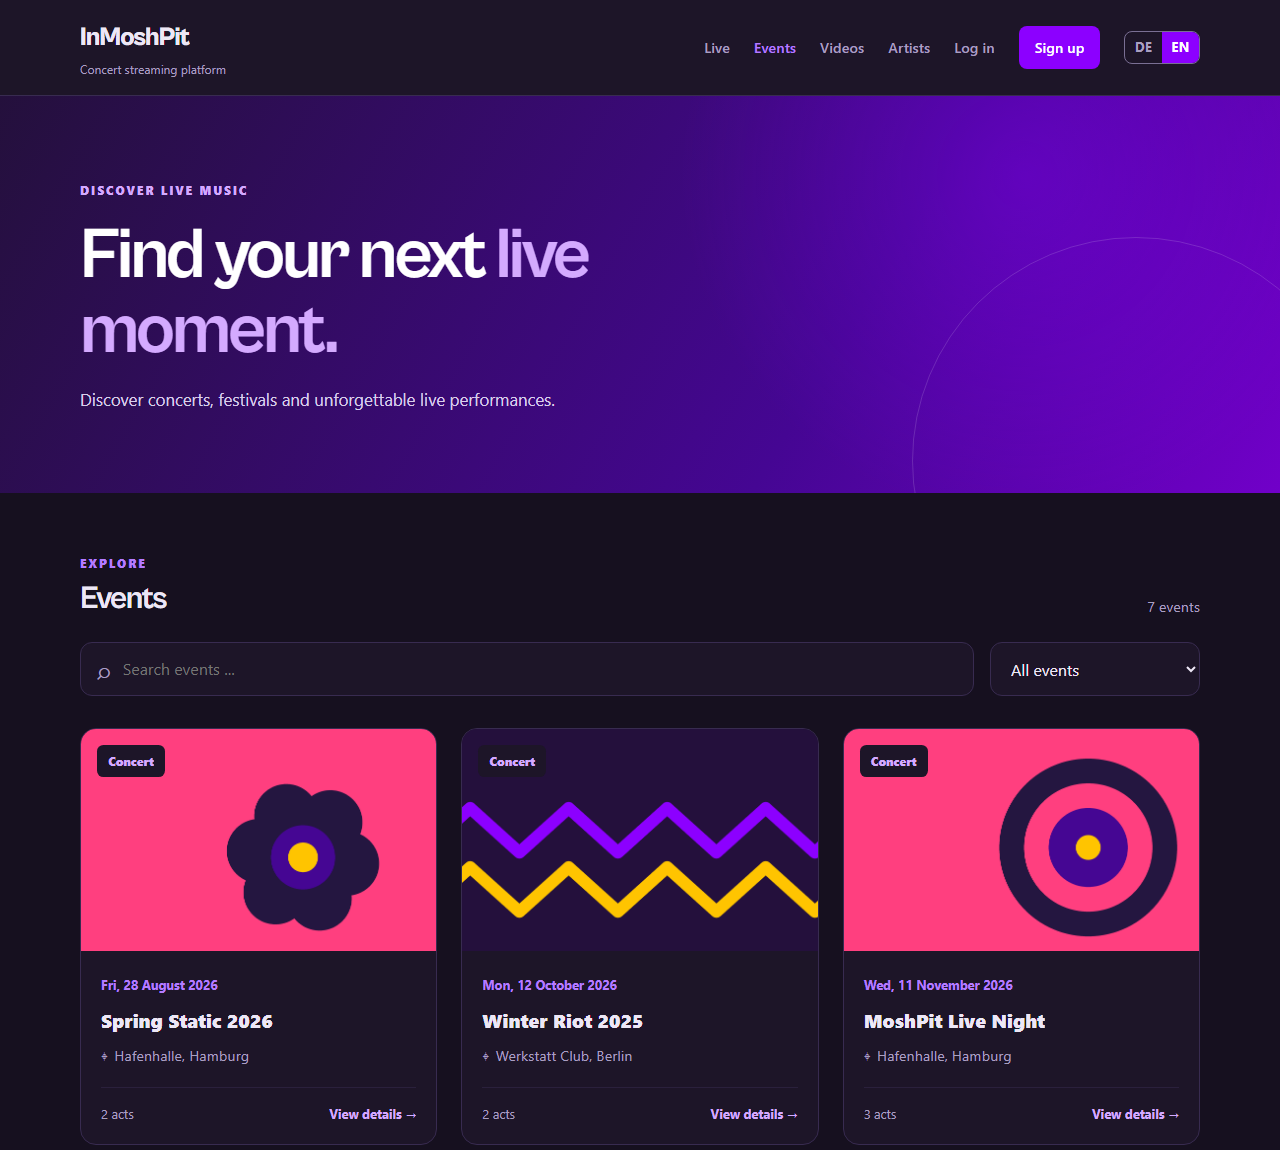
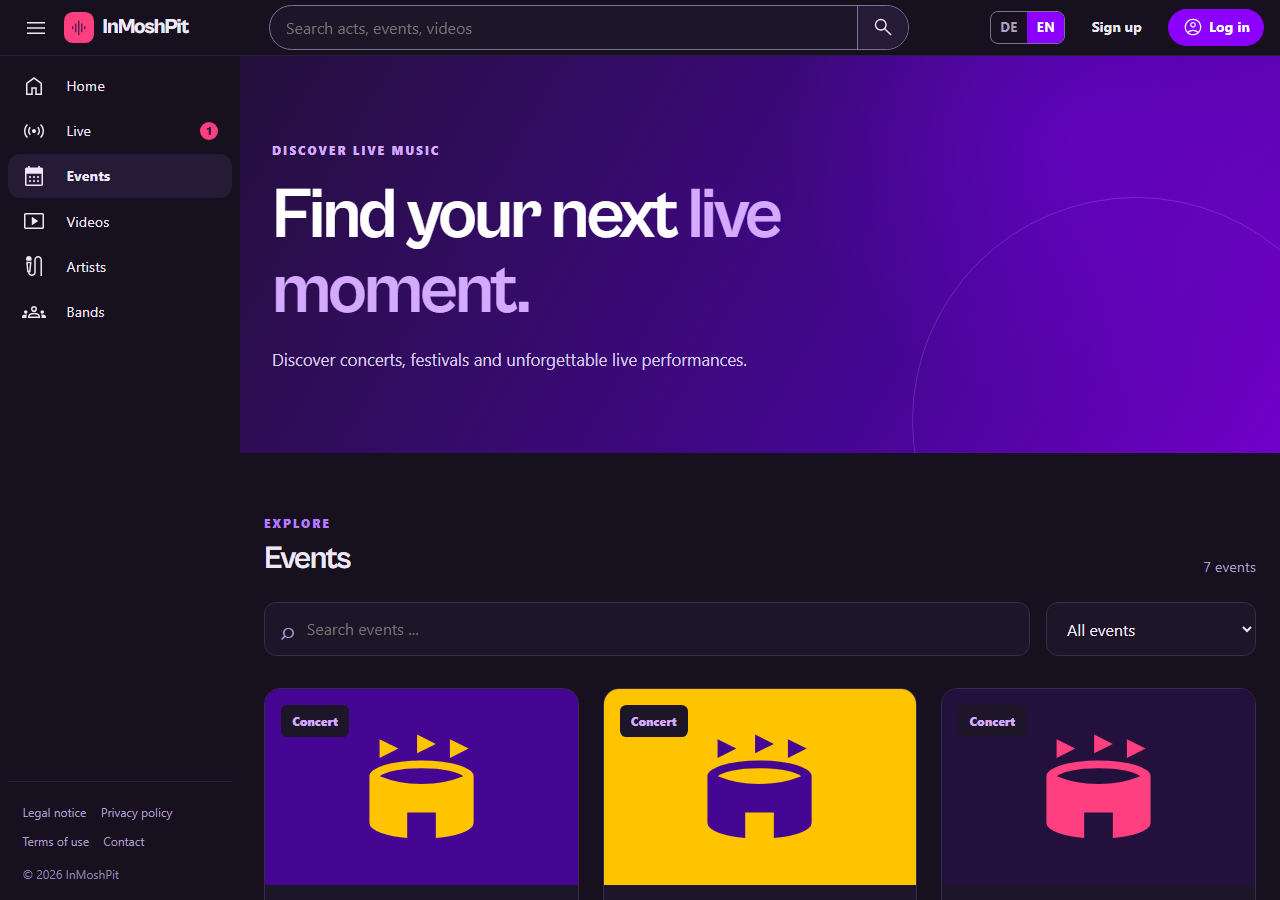
Update README for the new layout and retake the screenshots
Describe the layout and the token refresh, mention the icon set and replace the
screenshots with the home page, events, artists and the phone view.

diff --git a/README.md b/README.md
@@ -5,22 +5,23 @@ with the recordings. Available in German and English.
 
 ## Features
 
+- Video-platform layout: top bar with global search, collapsible sidebar, bottom navigation on phones
 - Live streams with countdown, status updates and HLS playback
 - Recordings archive with likes and comments
 - Events (concerts, festivals) with line-up and stages, artists and bands
-- Registration and JWT login
+- Registration and JWT login with automatic token refresh
 - DE/EN language switcher
 
 ## Screenshots
 
 <table>
   <tr>
-    <td width="50%" valign="top"><img src="docs/screenshots/streams.png" alt="Live streams overview"><br><sub>Live streams: live now and coming up</sub></td>
+    <td width="50%" valign="top"><img src="docs/screenshots/home.png" alt="Home with live, upcoming and recorded content"><br><sub>Home: live now, coming up and recordings</sub></td>
     <td width="50%" valign="top"><img src="docs/screenshots/events.png" alt="Events overview"><br><sub>Concerts and festivals in several cities</sub></td>
   </tr>
   <tr>
-    <td width="50%" valign="top"><img src="docs/screenshots/videos.png" alt="Concert recordings archive"><br><sub>Recordings archive</sub></td>
-    <td width="50%" valign="top"><img src="docs/screenshots/stream-countdown.png" alt="Countdown for an upcoming stream"><br><sub>Countdown for an upcoming stream</sub></td>
+    <td width="50%" valign="top"><img src="docs/screenshots/artists.png" alt="Artists overview with genre icons"><br><sub>Artists, icons follow the genre</sub></td>
+    <td width="50%" valign="top"><img src="docs/screenshots/home-mobile.jpg" alt="Home on a phone with bottom navigation" width="260"><br><sub>On phones: bottom navigation and search</sub></td>
   </tr>
 </table>
 
@@ -37,6 +38,7 @@ with the recordings. Available in German and English.
 ![Vite](https://img.shields.io/badge/Vite-646CFF?style=for-the-badge&logo=vite&logoColor=white)
 ![Pinia](https://img.shields.io/badge/Pinia-FFD859?style=for-the-badge&logo=pinia&logoColor=black)
 ![vue-i18n](https://img.shields.io/badge/vue--i18n-4FC08D?style=for-the-badge&logo=vuedotjs&logoColor=white)
+![Material Symbols](https://img.shields.io/badge/Material_Symbols-757575?style=for-the-badge&logo=materialdesign&logoColor=white)
 
 ![HLS](https://img.shields.io/badge/HLS-450693?style=for-the-badge)
 ![hls.js](https://img.shields.io/badge/hls.js-8C00FF?style=for-the-badge)
@@ -53,7 +55,7 @@ python -m venv .venv
 .venv\Scripts\activate
 pip install -r requirements.txt
 python manage.py migrate
-python manage.py seed_demo        # demo venues, acts, events, streams, videos and covers
+python manage.py seed_demo        # demo venues, acts, events, streams and videos
 python manage.py runserver 8002
 ```
 
